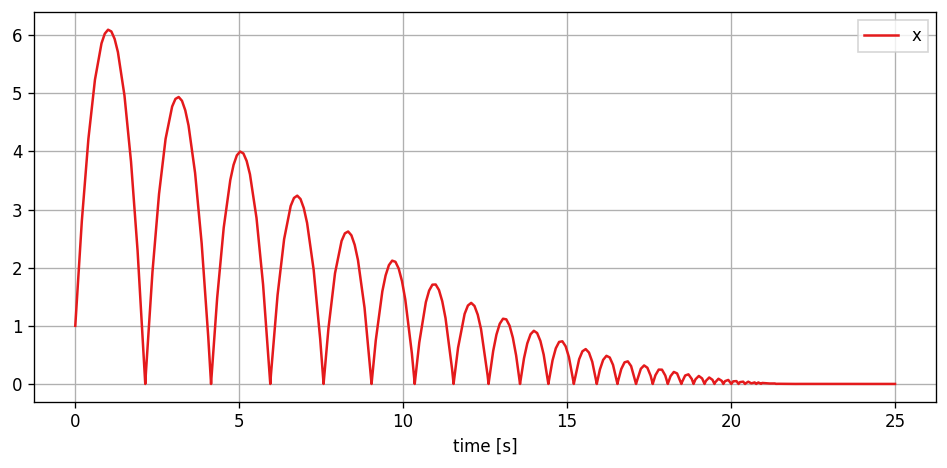
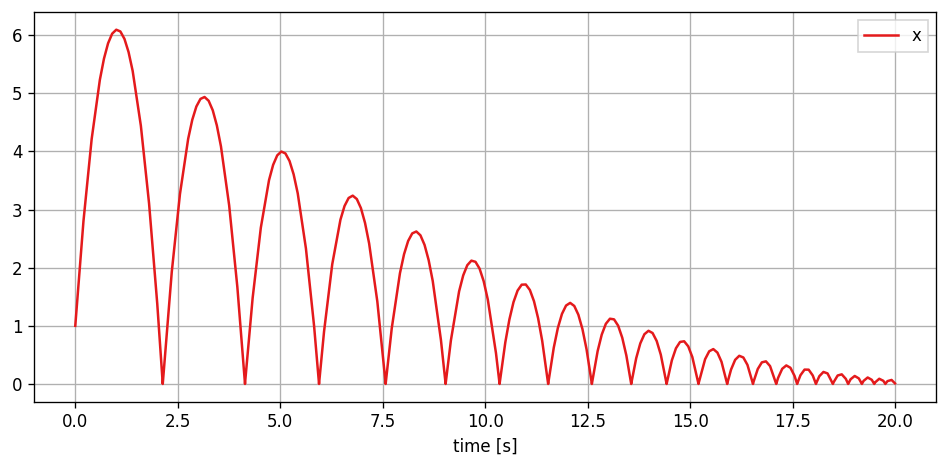
updated readme

diff --git a/README.md b/README.md
@@ -23,7 +23,7 @@ All features are demonstrated for benchmark problems in the `example` directory.
 
 ## Installation
 
-The latest release version of pathsim available on [PyPi](https://pypi.org/project/pathsim/)  and installable via pip:
+The latest release version of pathsim is available on [PyPi](https://pypi.org/project/pathsim/)  and installable via pip:
 
 ```console
 $ pip install pathsim
@@ -97,24 +97,24 @@ Sc.plot()
 time, data = Sc.read();
 ```
 
-    2024-11-16 19:02:59,194 - INFO - LOGGING enabled
-    2024-11-16 19:02:59,196 - INFO - SOLVER SSPRK22 adaptive=False implicit=False
-    2024-11-16 19:02:59,196 - INFO - PATH LENGTH ESTIMATE 2, 'iterations_min' set to 2
-    2024-11-16 19:02:59,197 - INFO - RESET
-    2024-11-16 19:02:59,198 - INFO - RUN duration=50.0
-    2024-11-16 19:02:59,198 - INFO - STARTING progress tracker
-    2024-11-16 19:02:59,199 - INFO - progress=0%
-    2024-11-16 19:02:59,217 - INFO - progress=10%
-    2024-11-16 19:02:59,236 - INFO - progress=20%
-    2024-11-16 19:02:59,255 - INFO - progress=30%
-    2024-11-16 19:02:59,273 - INFO - progress=40%
-    2024-11-16 19:02:59,290 - INFO - progress=50%
-    2024-11-16 19:02:59,308 - INFO - progress=60%
-    2024-11-16 19:02:59,326 - INFO - progress=70%
-    2024-11-16 19:02:59,345 - INFO - progress=80%
-    2024-11-16 19:02:59,363 - INFO - progress=90%
-    2024-11-16 19:02:59,380 - INFO - progress=100%
-    2024-11-16 19:02:59,381 - INFO - FINISHED steps(total)=1001(1001) runtime=181.51ms
+    2024-11-17 11:26:20,457 - INFO - LOGGING enabled
+    2024-11-17 11:26:20,458 - INFO - SOLVER SSPRK22 adaptive=False implicit=False
+    2024-11-17 11:26:20,459 - INFO - PATH LENGTH ESTIMATE 2, 'iterations_min' set to 2
+    2024-11-17 11:26:20,459 - INFO - RESET
+    2024-11-17 11:26:20,459 - INFO - RUN duration=50.0
+    2024-11-17 11:26:20,460 - INFO - STARTING progress tracker
+    2024-11-17 11:26:20,460 - INFO - progress=0%
+    2024-11-17 11:26:20,478 - INFO - progress=10%
+    2024-11-17 11:26:20,495 - INFO - progress=20%
+    2024-11-17 11:26:20,513 - INFO - progress=30%
+    2024-11-17 11:26:20,530 - INFO - progress=40%
+    2024-11-17 11:26:20,548 - INFO - progress=50%
+    2024-11-17 11:26:20,564 - INFO - progress=60%
+    2024-11-17 11:26:20,583 - INFO - progress=70%
+    2024-11-17 11:26:20,600 - INFO - progress=80%
+    2024-11-17 11:26:20,617 - INFO - progress=90%
+    2024-11-17 11:26:20,634 - INFO - progress=100%
+    2024-11-17 11:26:20,635 - INFO - FINISHED steps(total)=1001(1001) runtime=175.09ms
     
 
 
@@ -174,24 +174,24 @@ Sim.run(3*mu)
 Sc.plot(".-");
 ```
 
-    2024-11-16 19:02:59,534 - INFO - LOGGING enabled
-    2024-11-16 19:02:59,535 - INFO - SOLVER GEAR52A adaptive=True implicit=True
-    2024-11-16 19:02:59,535 - INFO - PATH LENGTH ESTIMATE 1, 'iterations_min' set to 1
-    2024-11-16 19:02:59,536 - INFO - RESET
-    2024-11-16 19:02:59,536 - INFO - RUN duration=3000
-    2024-11-16 19:02:59,536 - INFO - STARTING progress tracker
-    2024-11-16 19:02:59,559 - INFO - progress=0%
-    2024-11-16 19:02:59,954 - INFO - progress=13%
-    2024-11-16 19:03:00,001 - INFO - progress=21%
-    2024-11-16 19:03:00,612 - INFO - progress=30%
-    2024-11-16 19:03:00,640 - INFO - progress=43%
-    2024-11-16 19:03:00,694 - INFO - progress=50%
-    2024-11-16 19:03:01,288 - INFO - progress=61%
-    2024-11-16 19:03:01,310 - INFO - progress=70%
-    2024-11-16 19:03:01,431 - INFO - progress=80%
-    2024-11-16 19:03:01,958 - INFO - progress=92%
-    2024-11-16 19:03:01,986 - INFO - progress=100%
-    2024-11-16 19:03:01,987 - INFO - FINISHED steps(total)=682(880) runtime=2449.65ms
+    2024-11-17 11:26:31,260 - INFO - LOGGING enabled
+    2024-11-17 11:26:31,260 - INFO - SOLVER GEAR52A adaptive=True implicit=True
+    2024-11-17 11:26:31,261 - INFO - PATH LENGTH ESTIMATE 1, 'iterations_min' set to 1
+    2024-11-17 11:26:31,261 - INFO - RESET
+    2024-11-17 11:26:31,262 - INFO - RUN duration=3000
+    2024-11-17 11:26:31,262 - INFO - STARTING progress tracker
+    2024-11-17 11:26:31,284 - INFO - progress=0%
+    2024-11-17 11:26:31,677 - INFO - progress=13%
+    2024-11-17 11:26:31,720 - INFO - progress=21%
+    2024-11-17 11:26:32,291 - INFO - progress=30%
+    2024-11-17 11:26:32,317 - INFO - progress=43%
+    2024-11-17 11:26:32,371 - INFO - progress=50%
+    2024-11-17 11:26:32,940 - INFO - progress=61%
+    2024-11-17 11:26:32,962 - INFO - progress=70%
+    2024-11-17 11:26:33,080 - INFO - progress=80%
+    2024-11-17 11:26:33,591 - INFO - progress=92%
+    2024-11-17 11:26:33,619 - INFO - progress=100%
+    2024-11-17 11:26:33,619 - INFO - FINISHED steps(total)=682(880) runtime=2357.86ms
     
 
 
@@ -256,24 +256,24 @@ Sim.run(4*tau)
 Sco.plot()
 ```
 
-    2024-11-16 19:03:02,242 - INFO - LOGGING enabled
-    2024-11-16 19:03:02,242 - INFO - SOLVER SSPRK22 adaptive=False implicit=False
-    2024-11-16 19:03:02,243 - INFO - PATH LENGTH ESTIMATE 2, 'iterations_min' set to 2
-    2024-11-16 19:03:02,243 - INFO - RESET
-    2024-11-16 19:03:02,244 - INFO - RUN duration=12
-    2024-11-16 19:03:02,244 - INFO - STARTING progress tracker
-    2024-11-16 19:03:02,245 - INFO - progress=0%
-    2024-11-16 19:03:02,297 - INFO - progress=10%
-    2024-11-16 19:03:02,348 - INFO - progress=20%
-    2024-11-16 19:03:02,399 - INFO - progress=30%
-    2024-11-16 19:03:02,450 - INFO - progress=40%
-    2024-11-16 19:03:02,501 - INFO - progress=50%
-    2024-11-16 19:03:02,553 - INFO - progress=60%
-    2024-11-16 19:03:02,605 - INFO - progress=70%
-    2024-11-16 19:03:02,655 - INFO - progress=80%
-    2024-11-16 19:03:02,705 - INFO - progress=90%
-    2024-11-16 19:03:02,757 - INFO - progress=100%
-    2024-11-16 19:03:02,757 - INFO - FINISHED steps(total)=1201(1201) runtime=513.52ms
+    2024-11-17 11:26:41,033 - INFO - LOGGING enabled
+    2024-11-17 11:26:41,034 - INFO - SOLVER SSPRK22 adaptive=False implicit=False
+    2024-11-17 11:26:41,035 - INFO - PATH LENGTH ESTIMATE 2, 'iterations_min' set to 2
+    2024-11-17 11:26:41,035 - INFO - RESET
+    2024-11-17 11:26:41,036 - INFO - RUN duration=12
+    2024-11-17 11:26:41,036 - INFO - STARTING progress tracker
+    2024-11-17 11:26:41,037 - INFO - progress=0%
+    2024-11-17 11:26:41,088 - INFO - progress=10%
+    2024-11-17 11:26:41,138 - INFO - progress=20%
+    2024-11-17 11:26:41,188 - INFO - progress=30%
+    2024-11-17 11:26:41,237 - INFO - progress=40%
+    2024-11-17 11:26:41,287 - INFO - progress=50%
+    2024-11-17 11:26:41,339 - INFO - progress=60%
+    2024-11-17 11:26:41,389 - INFO - progress=70%
+    2024-11-17 11:26:41,439 - INFO - progress=80%
+    2024-11-17 11:26:41,489 - INFO - progress=90%
+    2024-11-17 11:26:41,539 - INFO - progress=100%
+    2024-11-17 11:26:41,540 - INFO - FINISHED steps(total)=1201(1201) runtime=503.43ms
     
 
 
@@ -312,7 +312,7 @@ ax.legend(fancybox=False);
 
 ## Event Detection
 
-Recently I added an event handling system to PathSim that implements zero-crossing detection. This enables the simulation of hybrid continuous time systems with discrete events. Probably the most popular example for this is the bouncing ball where discrete events occur whenever the ball touches the floor.
+PathSim has an event handling system that watches states of dynamic blocks or outputs of static blocks and can trigger callbacks or state teansformations. etection. This enables the simulation of hybrid continuous time systems with discrete events. Probably the most popular example for this is the bouncing ball where discrete events occur whenever the ball touches the floor.
 
 
 ```python
@@ -361,24 +361,24 @@ Sim.run(20)
 Sc.plot();
 ```
 
-    2024-11-17 11:17:15,490 - INFO - LOGGING enabled
-    2024-11-17 11:17:15,490 - INFO - SOLVER RKBS32 adaptive=True implicit=False
-    2024-11-17 11:17:15,491 - INFO - PATH LENGTH ESTIMATE 1, 'iterations_min' set to 1
-    2024-11-17 11:17:15,491 - INFO - RESET
-    2024-11-17 11:17:15,491 - INFO - RUN duration=25
-    2024-11-17 11:17:15,492 - INFO - STARTING progress tracker
-    2024-11-17 11:17:15,493 - INFO - progress=0%
-    2024-11-17 11:17:15,500 - INFO - progress=10%
-    2024-11-17 11:17:15,508 - INFO - progress=20%
-    2024-11-17 11:17:15,516 - INFO - progress=30%
-    2024-11-17 11:17:15,527 - INFO - progress=40%
-    2024-11-17 11:17:15,537 - INFO - progress=50%
-    2024-11-17 11:17:15,550 - INFO - progress=60%
-    2024-11-17 11:17:15,566 - INFO - progress=70%
-    2024-11-17 11:17:15,592 - INFO - progress=80%
-    2024-11-17 11:17:15,743 - INFO - progress=90%
-    2024-11-17 11:17:16,104 - INFO - progress=100%
-    2024-11-17 11:17:16,104 - INFO - FINISHED steps(total)=1936(3175) runtime=611.95ms
+    2024-11-17 11:17:53,524 - INFO - LOGGING enabled
+    2024-11-17 11:17:53,524 - INFO - SOLVER RKBS32 adaptive=True implicit=False
+    2024-11-17 11:17:53,525 - INFO - PATH LENGTH ESTIMATE 1, 'iterations_min' set to 1
+    2024-11-17 11:17:53,525 - INFO - RESET
+    2024-11-17 11:17:53,526 - INFO - RUN duration=20
+    2024-11-17 11:17:53,526 - INFO - STARTING progress tracker
+    2024-11-17 11:17:53,527 - INFO - progress=0%
+    2024-11-17 11:17:53,532 - INFO - progress=10%
+    2024-11-17 11:17:53,539 - INFO - progress=20%
+    2024-11-17 11:17:53,548 - INFO - progress=30%
+    2024-11-17 11:17:53,558 - INFO - progress=40%
+    2024-11-17 11:17:53,565 - INFO - progress=50%
+    2024-11-17 11:17:53,575 - INFO - progress=60%
+    2024-11-17 11:17:53,585 - INFO - progress=70%
+    2024-11-17 11:17:53,598 - INFO - progress=80%
+    2024-11-17 11:17:53,610 - INFO - progress=90%
+    2024-11-17 11:17:53,632 - INFO - progress=100%
+    2024-11-17 11:17:53,633 - INFO - FINISHED steps(total)=395(496) runtime=106.76ms
     
 
 
@@ -410,18 +410,9 @@ ax.grid(True)
 ```
 
 
-    ---------------------------------------------------------------------------
-
-    NameError                                 Traceback (most recent call last)
-
-    Cell In[3], line 3
-          1 import numpy as np
-    ----> 3 fig, ax = plt.subplots(figsize=(8,4), tight_layout=True, dpi=120)
-          5 time, _ = Sc.read()
-          7 #add detected events
     
-
-    NameError: name 'plt' is not defined
+![png](README_files/README_14_0.png)
+    
 
 
 
